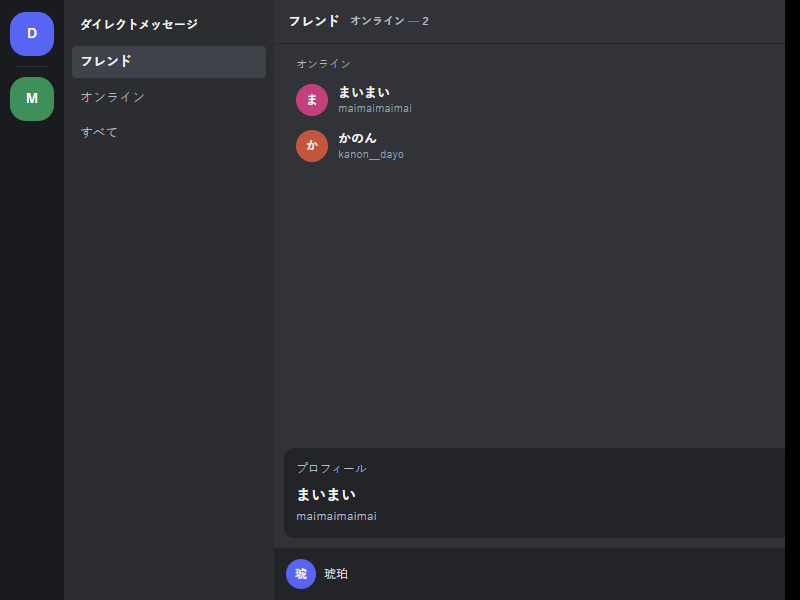
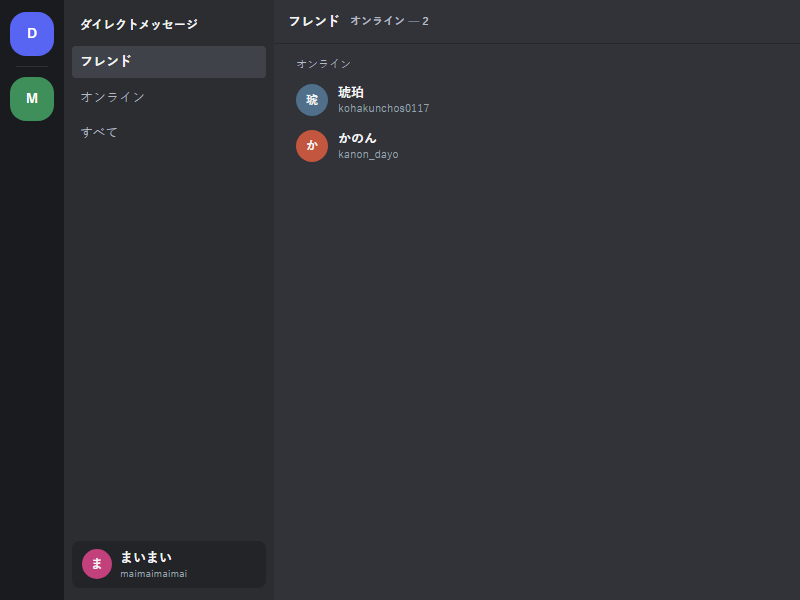
fix(discord): 2026年のスクショを MaiMai 本人視点にし、旧注記とカイを外して撮り直す (#103)
- 2026: 左下の自分を「まいまい」/maimaimaimai、フレンドは琥珀・かのん（Discord 表記 kanon_dayo）
- 2018/2019: 「（旧: hunter_denden）」を廃止し、名前欄とID欄で hunter_denden / hunter_denden3243 を併記
- 2019: imperial_chi（カイ）を同席者から外す
- 撮影を scripts/shoot-screens.mjs に固定（--hide-scrollbars で右端15pxの黒帯を出さない）

diff --git a/app/screens/_components/scenes.tsx b/app/screens/_components/scenes.tsx
@@ -1,5 +1,5 @@
 import type { CSSProperties, ReactNode } from "react";
-import { CURRENT_ID, GAME_OLD_DISPLAY_NAME, GAME_OLD_ID } from "../scenes";
+import { CURRENT_ID, GAME_OLD_DISPLAY_NAME, GAME_OLD_ID, KANON_DISCORD_HANDLE } from "../scenes";
 
 /**
  * 撮影用のモック画面（#103）。文字はすべて HTML テキストで描く。
@@ -49,7 +49,7 @@ function Slot({ n }: { n: number }) {
   );
 }
 
-/** 2018年・狩猟中のゲーム画面（1200×675）。ゲーム内IDは hunter_denden3243（旧表示名 hunter_denden を別ラベルで併記）。 */
+/** 2018年・狩猟中のゲーム画面（1200×675）。名前欄 hunter_denden と ID欄 hunter_denden3243 を別項目で併記する。 */
 export function GameScene() {
   return (
     <div
@@ -82,13 +82,15 @@ export function GameScene() {
         }}
       />
 
-      {/* 左上: 名前とHP/スタミナ */}
+      {/* 左上: 名前欄・ID欄とHP/スタミナ */}
       <div style={{ position: "absolute", left: 28, top: 24, width: 320 }}>
-        <div style={{ display: "flex", alignItems: "baseline", gap: 8, marginBottom: 6 }}>
-          <span style={{ fontSize: 13, letterSpacing: 0.5, color: "#cfe3d6" }}>{GAME_OLD_ID}</span>
+        <div style={{ display: "flex", alignItems: "baseline", gap: 8, marginBottom: 2 }}>
+          <span style={{ fontSize: 13, letterSpacing: 0.5, color: "#eaf4ed" }}>
+            {GAME_OLD_DISPLAY_NAME}
+          </span>
           <span style={{ fontSize: 10, color: "#9fb3a6" }}>HR 52</span>
-          <span style={{ fontSize: 9, color: "#8fa697" }}>（旧: {GAME_OLD_DISPLAY_NAME}）</span>
         </div>
+        <div style={{ fontSize: 9, color: "#8fa697", marginBottom: 6 }}>ID {GAME_OLD_ID}</div>
         <div style={{ display: "flex", flexDirection: "column", gap: 6 }}>
           <Bar width="82%" color="#c0392b" />
           <Bar width="64%" color="#e0b34a" height={7} />
@@ -225,7 +227,7 @@ function FriendRow({ name, handle, color }: { name: string; handle: string; colo
   );
 }
 
-/** 2026年・Discord のフレンド一覧（800×600）。相手の ID は maimaimaimai。 */
+/** 2026年・Discord のフレンド一覧（800×600）。MaiMai 本人視点（左下が自分 maimaimaimai、フレンドに 琥珀・かのん）。 */
 export function DiscordFriendsScene() {
   return (
     <div id="screen" style={frame(800, 600, "#1e1f22")}>
@@ -248,7 +250,15 @@ export function DiscordFriendsScene() {
         </div>
 
         {/* チャンネル一覧 */}
-        <div style={{ width: 210, background: "#2b2d31", padding: "12px 8px" }}>
+        <div
+          style={{
+            width: 210,
+            background: "#2b2d31",
+            padding: "12px 8px",
+            display: "flex",
+            flexDirection: "column",
+          }}
+        >
           <div style={{ fontSize: 12, fontWeight: 700, padding: "4px 8px" }}>
             ダイレクトメッセージ
           </div>
@@ -270,6 +280,39 @@ export function DiscordFriendsScene() {
           <div style={{ marginTop: 4, padding: "6px 8px", fontSize: 13, color: "#b5bac1" }}>
             すべて
           </div>
+
+          {/* 左下: 自分のユーザーパネル（MaiMai 本人視点） */}
+          <div
+            style={{
+              marginTop: "auto",
+              background: "#232428",
+              borderRadius: 8,
+              padding: "8px 10px",
+              display: "flex",
+              alignItems: "center",
+              gap: 8,
+              fontSize: 12,
+            }}
+          >
+            <div
+              style={{
+                width: 30,
+                height: 30,
+                borderRadius: "50%",
+                background: "#c2417c",
+                display: "flex",
+                alignItems: "center",
+                justifyContent: "center",
+                fontWeight: 700,
+              }}
+            >
+              ま
+            </div>
+            <div style={{ lineHeight: 1.35 }}>
+              <div style={{ fontSize: 13, fontWeight: 700 }}>まいまい</div>
+              <div style={{ fontSize: 10, color: "#9aa3ad" }}>{CURRENT_ID}</div>
+            </div>
+          </div>
         </div>
 
         {/* メイン */}
@@ -290,53 +333,8 @@ export function DiscordFriendsScene() {
           </div>
           <div style={{ padding: 12 }}>
             <div style={{ fontSize: 11, color: "#b5bac1", padding: "0 10px 4px" }}>オンライン</div>
-            <FriendRow name="まいまい" handle={CURRENT_ID} color="#c2417c" />
-            <FriendRow name="かのん" handle="kanon__dayo" color="#c2563f" />
-          </div>
-
-          <div style={{ marginTop: "auto", padding: 10 }}>
-            <div
-              style={{
-                background: "#232428",
-                borderRadius: 10,
-                padding: 12,
-                fontSize: 12,
-                lineHeight: 1.6,
-              }}
-            >
-              <div style={{ color: "#b5bac1" }}>プロフィール</div>
-              <div style={{ fontSize: 15, fontWeight: 700, marginTop: 4 }}>まいまい</div>
-              <div style={{ color: "#b5bac1" }}>{CURRENT_ID}</div>
-            </div>
-          </div>
-
-          {/* 左下: 自分のユーザーパネル */}
-          <div
-            style={{
-              height: 52,
-              background: "#232428",
-              display: "flex",
-              alignItems: "center",
-              gap: 8,
-              padding: "0 12px",
-              fontSize: 12,
-            }}
-          >
-            <div
-              style={{
-                width: 30,
-                height: 30,
-                borderRadius: "50%",
-                background: "#5865f2",
-                display: "flex",
-                alignItems: "center",
-                justifyContent: "center",
-                fontWeight: 700,
-              }}
-            >
-              琥
-            </div>
-            琥珀
+            <FriendRow name="琥珀" handle="kohakunchos0117" color="#4f6f8a" />
+            <FriendRow name="かのん" handle={KANON_DISCORD_HANDLE} color="#c2563f" />
           </div>
         </div>
       </div>
@@ -344,7 +342,17 @@ export function DiscordFriendsScene() {
   );
 }
 
-function PartyMember({ handle, rank, color }: { handle: string; rank: string; color: string }) {
+function PartyMember({
+  name,
+  id,
+  rank,
+  color,
+}: {
+  name: string;
+  id?: string;
+  rank: string;
+  color: string;
+}) {
   return (
     <div
       style={{
@@ -370,17 +378,18 @@ function PartyMember({ handle, rank, color }: { handle: string; rank: string; co
           fontWeight: 700,
         }}
       >
-        {handle.slice(0, 1)}
+        {name.slice(0, 1)}
       </div>
-      <div>
-        <div style={{ fontSize: 13, fontWeight: 600 }}>{handle}</div>
+      <div style={{ lineHeight: 1.4 }}>
+        <div style={{ fontSize: 13, fontWeight: 600 }}>{name}</div>
+        {id ? <div style={{ fontSize: 10, color: "#8fa0ad" }}>ID {id}</div> : null}
         <div style={{ fontSize: 11, color: "#a9b6c0" }}>{rank}</div>
       </div>
     </div>
   );
 }
 
-/** 2019年・ロビー/パーティ画面（800×600）。ゲーム内ID hunter_denden3243（旧表示名 hunter_denden）が写る。 */
+/** 2019年・ロビー/パーティ画面（800×600）。名前欄 hunter_denden と ID欄 hunter_denden3243 が写る。 */
 export function LobbyScene() {
   return (
     <div
@@ -424,13 +433,14 @@ export function LobbyScene() {
         <div style={{ width: 300 }}>
           <div style={{ fontSize: 11, color: "#a9b6c0", marginBottom: 8 }}>パーティメンバー</div>
           <PartyMember
-            handle={GAME_OLD_ID}
-            rank="HR 52・双剣（旧: hunter_denden）"
+            name={GAME_OLD_DISPLAY_NAME}
+            id={GAME_OLD_ID}
+            rank="HR 52・双剣"
             color="#7a6a3f"
           />
-          <PartyMember handle="imperial_chi" rank="HR 49・太刀" color="#4f6f8a" />
-          <PartyMember handle="gunlance_taro" rank="HR 61・ガンランス" color="#57f287" />
-          <PartyMember handle="bow_haruka" rank="HR 44・弓" color="#9b59b6" />
+          <PartyMember name="gunlance_taro" rank="HR 61・ガンランス" color="#57f287" />
+          <PartyMember name="bow_haruka" rank="HR 44・弓" color="#9b59b6" />
+          <PartyMember name="switchaxe_mio" rank="HR 38・スラアク" color="#8a6fb0" />
         </div>
       </div>
 

diff --git a/app/screens/scenes.test.tsx b/app/screens/scenes.test.tsx
@@ -7,7 +7,7 @@ import {
   CURRENT_ID,
   GAME_OLD_DISPLAY_NAME,
   GAME_OLD_ID,
-  OLD_DISCORD_ID,
+  KANON_DISCORD_HANDLE,
   SCENE_IDS,
   SCREEN_SCENES,
 } from "./scenes";
@@ -33,7 +33,7 @@ describe("順序4の撮影用モック画面（#103）", () => {
     expect(GAME_OLD_ID).not.toBe(OLD_DISPLAY_NAME);
     expect(CURRENT_ID).toBe("maimaimaimai");
     expect(CURRENT_ID).toBe(MAIMAI_HANDLE);
-    expect(OLD_DISCORD_ID).toBe(OLD_HANDLE);
+    expect(KANON_DISCORD_HANDLE).toBe("kanon_dayo");
   });
 
   it("各画面の HTML テキストに、その画面のIDがそのまま出る", () => {
@@ -51,7 +51,27 @@ describe("順序4の撮影用モック画面（#103）", () => {
 
     const lobby = render(<LobbyScene />);
     expect(lobby.container.textContent).toContain(GAME_OLD_ID);
-    expect(lobby.container.textContent).toContain(OLD_DISCORD_ID);
+    expect(lobby.container.textContent).toContain(GAME_OLD_DISPLAY_NAME);
+    // カイ（imperial_chi）は別ゲームで知り合う前提なので、2019年の同席者に出さない
+    expect(lobby.container.textContent).not.toContain("imperial_chi");
+    expect(lobby.container.textContent).not.toContain("旧:");
+  });
+
+  it("2026年のスクショは MaiMai 本人視点（左下が自分・フレンドは琥珀とかのん）", () => {
+    const { container } = render(<DiscordFriendsScene />);
+    const text = container.textContent ?? "";
+    // 自分（左下のユーザーパネル）が「まいまい」で、IDが現在のハンドル
+    expect(text).toContain("まいまい");
+    expect(text).toContain(CURRENT_ID);
+    // フレンド一覧は 琥珀・かのん（Discord 表記は kanon_dayo）
+    expect(text).toContain("琥珀");
+    expect(text).toContain("かのん");
+    expect(text).toContain(KANON_DISCORD_HANDLE);
+    expect(text).not.toContain("kanon__dayo");
+    // 「（旧: …）」のような未来視点の注記は書かない
+    expect(text).not.toContain("旧:");
+    // フレンド一覧の行（ハンドル表示）は 琥珀 と かのん の2件
+    expect(text.match(/kohakunchos0117/g)).toHaveLength(1);
   });
 
   it("Twixer の旧ハンドル（別物）は撮影画面に出さない", async () => {

diff --git a/app/screens/scenes.ts b/app/screens/scenes.ts
@@ -10,8 +10,8 @@ export const GAME_OLD_ID = "hunter_denden3243";
 export const GAME_OLD_DISPLAY_NAME = "hunter_denden";
 /** 現在の Discord のハンドル（2026年のフレンド一覧に写る）。 */
 export const CURRENT_ID = "maimaimaimai";
-/** 旧 Discord のハンドル（lobby2019 の別メンバー表記に使う）。 */
-export const OLD_DISCORD_ID = "hunter_denden3243";
+/** かのんの Discord 表記（Twixer の `kanon__dayo` とは別物）。 */
+export const KANON_DISCORD_HANDLE = "kanon_dayo";
 
 export type ScreenScene = {
   id: "game2018" | "discord2026" | "lobby2019";
@@ -45,7 +45,8 @@ export const SCREEN_SCENES: Record<ScreenScene["id"], ScreenScene> = {
     id: "lobby2019",
     width: 800,
     height: 600,
-    ids: [GAME_OLD_ID, OLD_DISCORD_ID],
+    // 2019年の画面に写るのは自分（hunter_denden3243）だけ。カイ（imperial_chi）は同席しない
+    ids: [GAME_OLD_ID],
     output: "/discord-like/screenshot-2019-lobby.png",
     title: "2019年 ロビー",
   },
